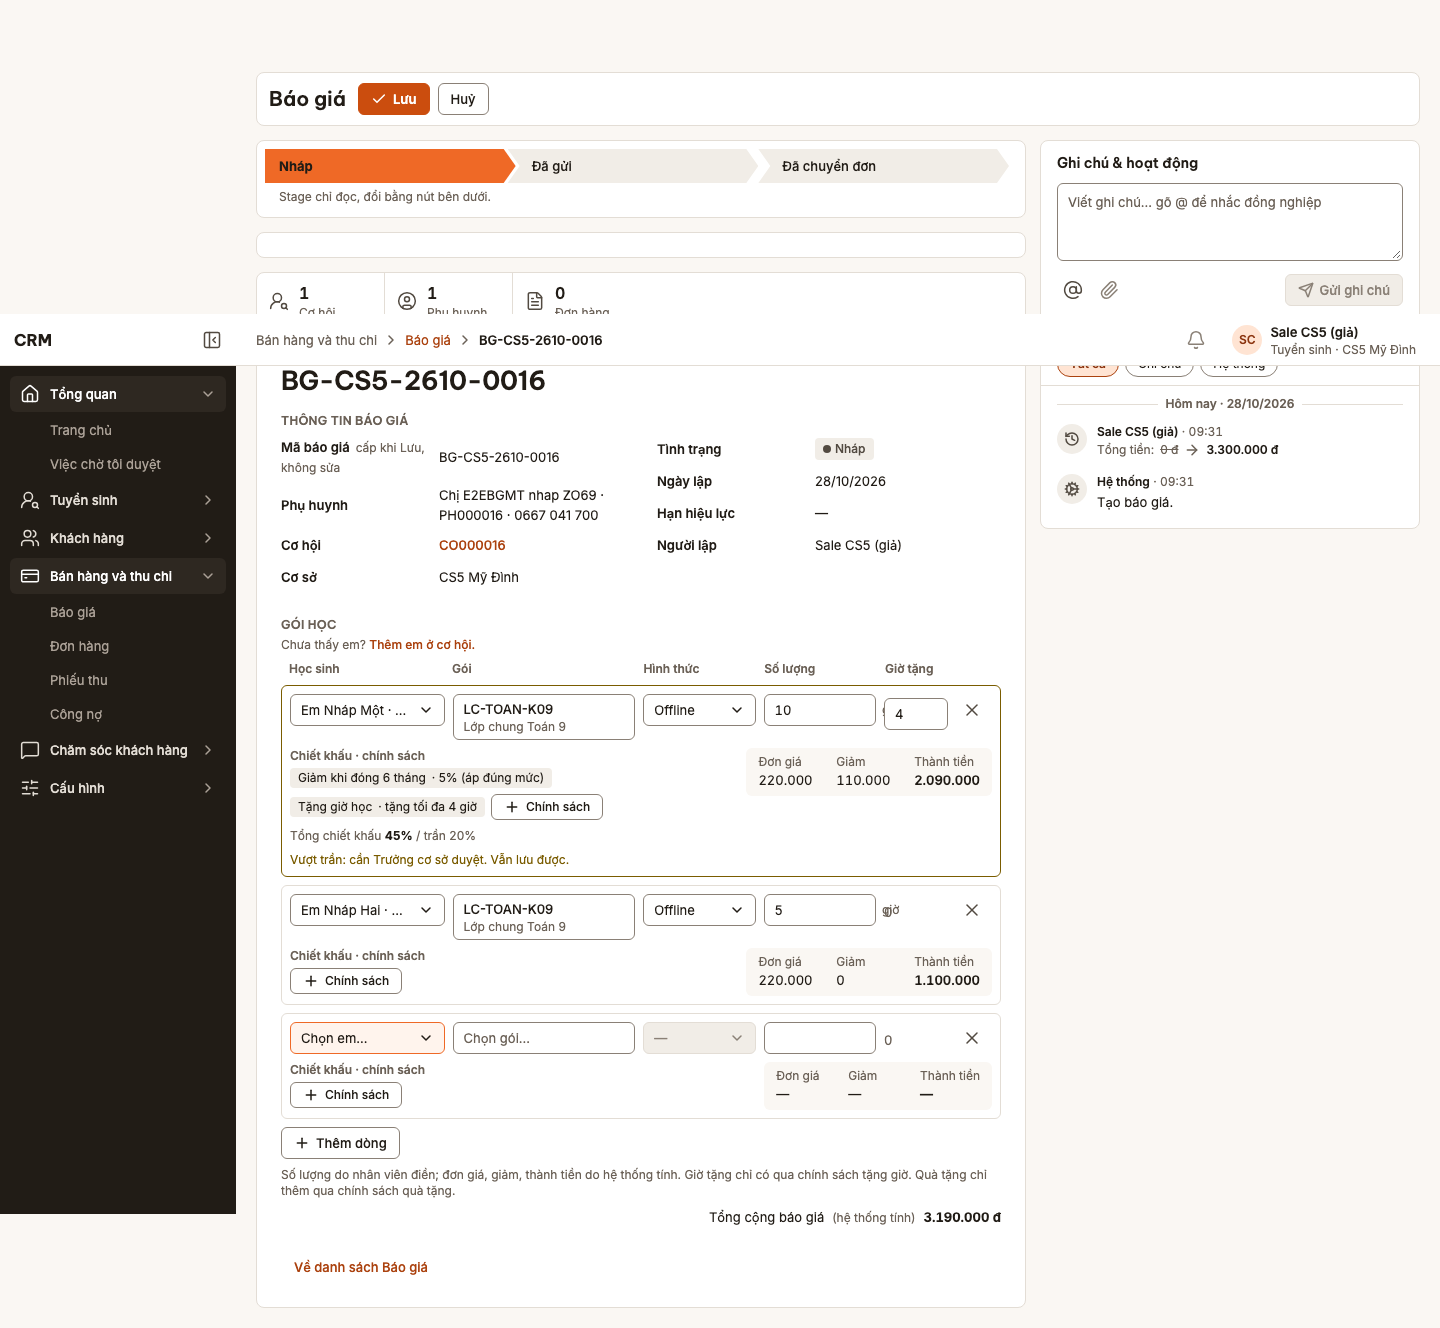
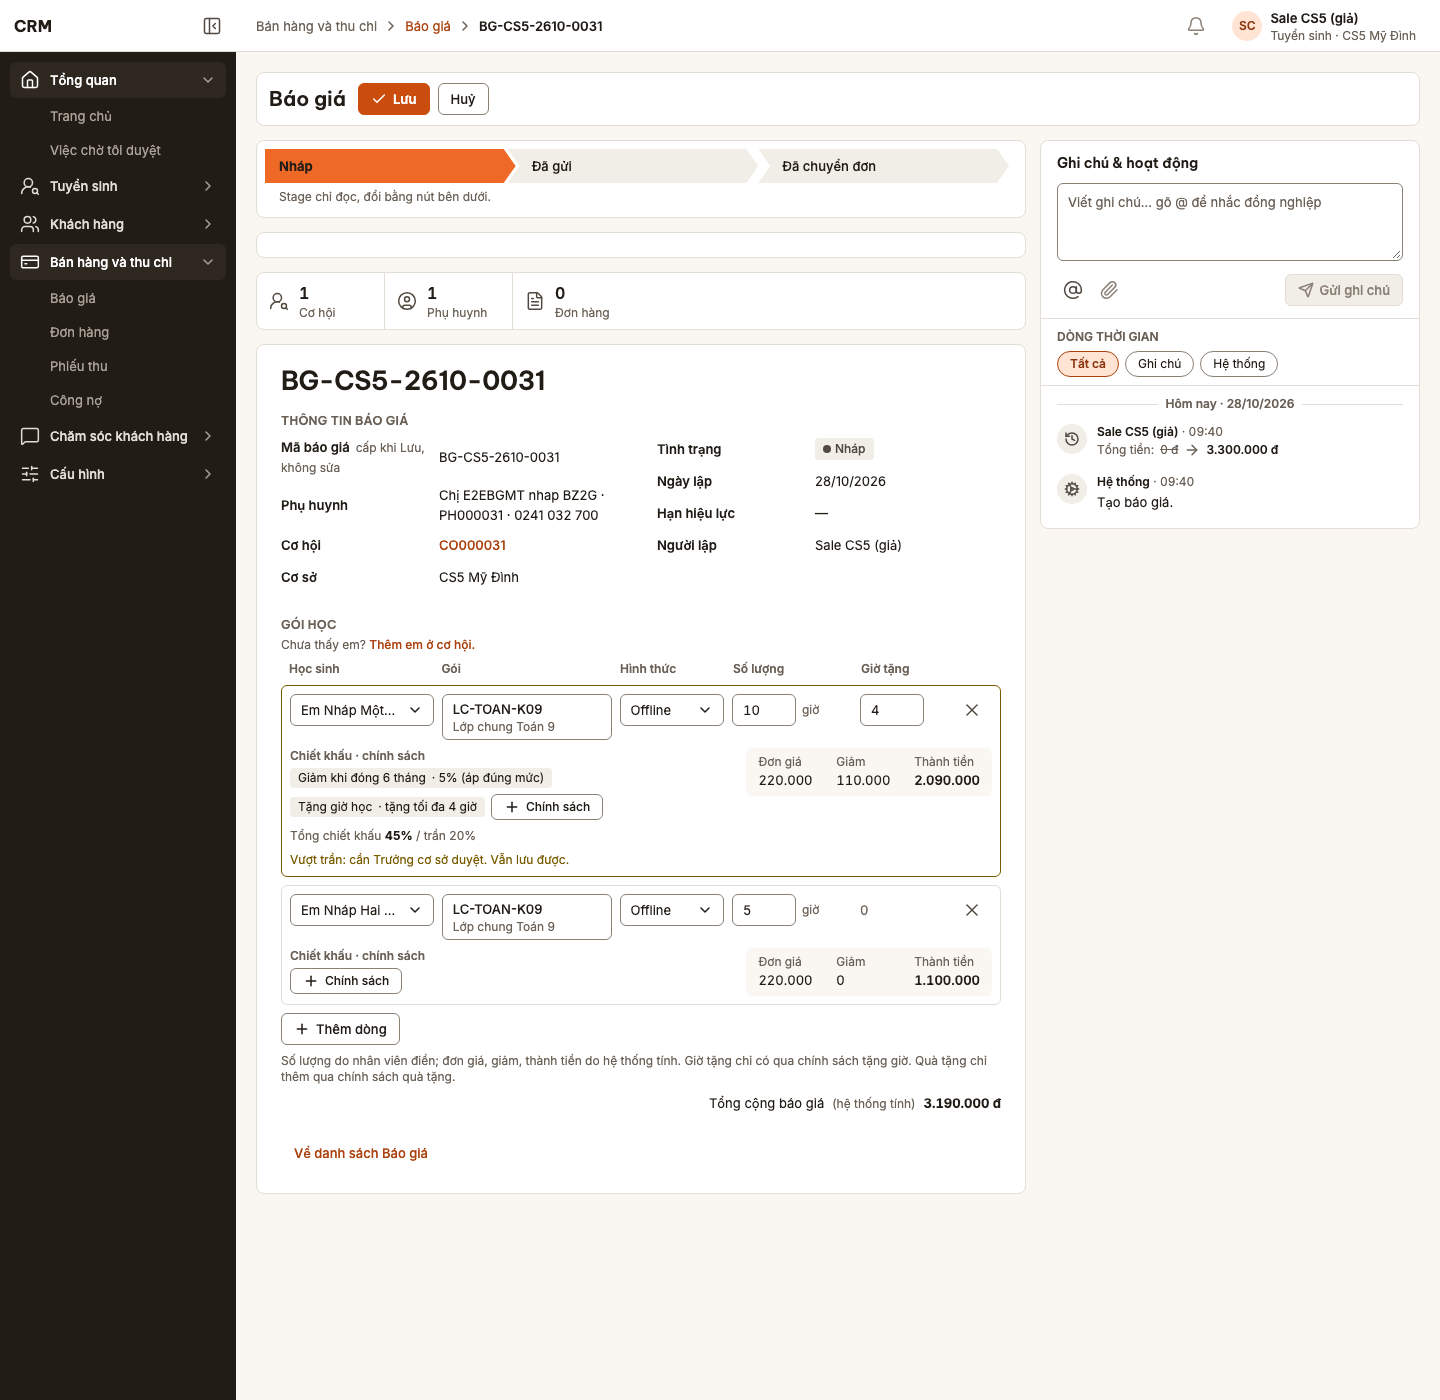
P5a-UI-7 (C2): căn ô Số lượng và Giờ tặng, chữ đơn vị không chồng; chụp lại ảnh vượt trần; ghi nợ Đ255

diff --git a/src/pages/bao-gia/QuoteLineGrid.tsx b/src/pages/bao-gia/QuoteLineGrid.tsx
@@ -17,7 +17,7 @@ import { UNIT_LABEL } from './quoteRecord';
 import type { DiscountPolicy, OppStudent, SellablePackage } from './useQuoteData';
 
 const GRID =
-  'grid grid-cols-[minmax(130px,1.1fr)_minmax(150px,1.3fr)_minmax(96px,0.8fr)_minmax(96px,0.8fr)_64px_36px] items-start gap-2';
+  'grid grid-cols-[minmax(130px,1.1fr)_minmax(150px,1.3fr)_minmax(96px,0.8fr)_minmax(120px,0.9fr)_88px_36px] items-start gap-2';
 
 function studentLabel(s: OppStudent): string {
   const name = s.full_name ?? `Em thứ ${String(s.position)}`;
@@ -197,44 +197,48 @@ export function QuoteLineGrid({
                     </>
                   )}
                 </div>
-                <div className="flex items-center gap-1.5">
-                  <input
-                    type="text"
-                    inputMode="decimal"
-                    aria-label={`Số lượng dòng ${String(index + 1)}`}
-                    aria-invalid={issue ? true : undefined}
-                    value={row.quantity}
-                    disabled={disabled}
-                    onChange={(e) => update(row.key, { quantity: e.target.value, calc: null })}
-                    className={cn(INPUT_CLASS, 'w-16 shrink-0 tabular')}
-                  />
+                <div className="flex min-h-control items-center gap-1.5">
+                  <div className="w-16 shrink-0">
+                    <input
+                      type="text"
+                      inputMode="decimal"
+                      aria-label={`Số lượng dòng ${String(index + 1)}`}
+                      aria-invalid={issue ? true : undefined}
+                      value={row.quantity}
+                      disabled={disabled}
+                      onChange={(e) => update(row.key, { quantity: e.target.value, calc: null })}
+                      className={cn(INPUT_CLASS, 'tabular')}
+                    />
+                  </div>
                   <span className="text-caption text-fg-muted">
                     {row.unitCode === '' ? '' : UNIT_LABEL[row.unitCode]}
                   </span>
                 </div>
-                <div className="flex items-center gap-1 pt-1 tabular">
+                <div className="flex min-h-control items-center gap-1 tabular">
                   {giftDiscount === undefined ? (
-                    <span className="pt-1 text-fg-muted">0</span>
+                    <span className="text-fg-muted">0</span>
                   ) : giftPolicy?.fixed_value ? (
-                    <span className="pt-1">{percentText(giftPolicy.max_value)}</span>
+                    <span>{percentText(giftPolicy.max_value)}</span>
                   ) : (
-                    <input
-                      type="text"
-                      inputMode="decimal"
-                      aria-label={`Giờ tặng dòng ${String(index + 1)}`}
-                      value={giftDiscount.value}
-                      disabled={disabled}
-                      onChange={(e) =>
-                        update(row.key, {
-                          discounts: row.discounts.map((d) =>
-                            d.policyId === giftDiscount.policyId
-                              ? { ...d, value: e.target.value }
-                              : d,
-                          ),
-                        })
-                      }
-                      className={cn(INPUT_CLASS, 'w-14 tabular')}
-                    />
+                    <div className="w-16 shrink-0">
+                      <input
+                        type="text"
+                        inputMode="decimal"
+                        aria-label={`Giờ tặng dòng ${String(index + 1)}`}
+                        value={giftDiscount.value}
+                        disabled={disabled}
+                        onChange={(e) =>
+                          update(row.key, {
+                            discounts: row.discounts.map((d) =>
+                              d.policyId === giftDiscount.policyId
+                                ? { ...d, value: e.target.value }
+                                : d,
+                            ),
+                          })
+                        }
+                        className={cn(INPUT_CLASS, 'tabular')}
+                      />
+                    </div>
                   )}
                 </div>
                 <div>

diff --git a/docs/TIEN-DO.md b/docs/TIEN-DO.md
@@ -184,6 +184,7 @@ Claude Design: P4 xong. **Thiết kế P5 (canvas v118): đã duyệt ngày 27/1
 
 ## Việc để sau
 
+- **Nợ kỹ thuật BH-02 (Đ255, anh chốt 27/10, tạm chấp nhận):** lưới sửa Nháp gọi xem thử thêm một lần cho mỗi dòng lỗi, vì `preview_quotation_lines` dừng ở lỗi đầu tiên. Cần sửa: `preview_quotation_lines` trả lỗi của tất cả các dòng trong một lần gọi.
 - **Danh sách em của lead và cơ hội (QĐ-Đ75 đến Đ117):** DB-1 đã gộp (#88, migration `043`, staging đạt). Còn: PR Danh sách em-2 (DB, luật mới: thêm, sửa, bỏ em, kiểm trùng, tối đa số em, gộp hợp danh sách, ít nhất một em đủ tên và năm sinh), PR giao diện (khuôn K06b, K08b, K08c; sáu màn TS-08, TS-02, TS-06, TS-15, BH-02, BH-05). Chữ luật (spec 04: R-CRM-23, 03, 05, 13, 27, 37, R-TIEN-35, 02, 07; R-GD-13; spec 06 L8A) vào PR sửa luật riêng sau khi #87 gộp. P5a-DB0 đã gộp (#89, migration `044`); P5a-DB1 (báo giá, đơn): chỉ lập kế hoạch gửi anh duyệt trước khi viết migration.
 - **LMS và chấm bài bằng AI (giai đoạn 4b/4c, QĐ-Đ62 đến Đ64):** còn mở: (1) lệch R-LMS-04 (20 trang mỗi bài) với tài liệu `docs/nghien-cuu/cham-tu-luan-ai.md` (khoảng 10 trang mỗi bài); (2) "mục D phiếu chấm buổi" chưa có trong luật; (3) cần chốt thời hạn giữ ảnh trên R2; (4) chi phí gói trả phí chưa quyết; (5) bộ chấm chạy ở đâu (Edge Function có giới hạn thời gian) chưa quyết.
 - **Quản lý trực tiếp (PR DB `feat/hts-quan-ly-truc-tiep`):** cột, `set_manager`, `approval_route`, `can_approve_as_manager` đã có. **Trường "Quản lý trực tiếp" trên màn Người dùng (QT-01) chưa làm được vì màn QT-01 chưa dựng**; thêm trường khi dựng QT-01 (gọi `app.set_manager`).
